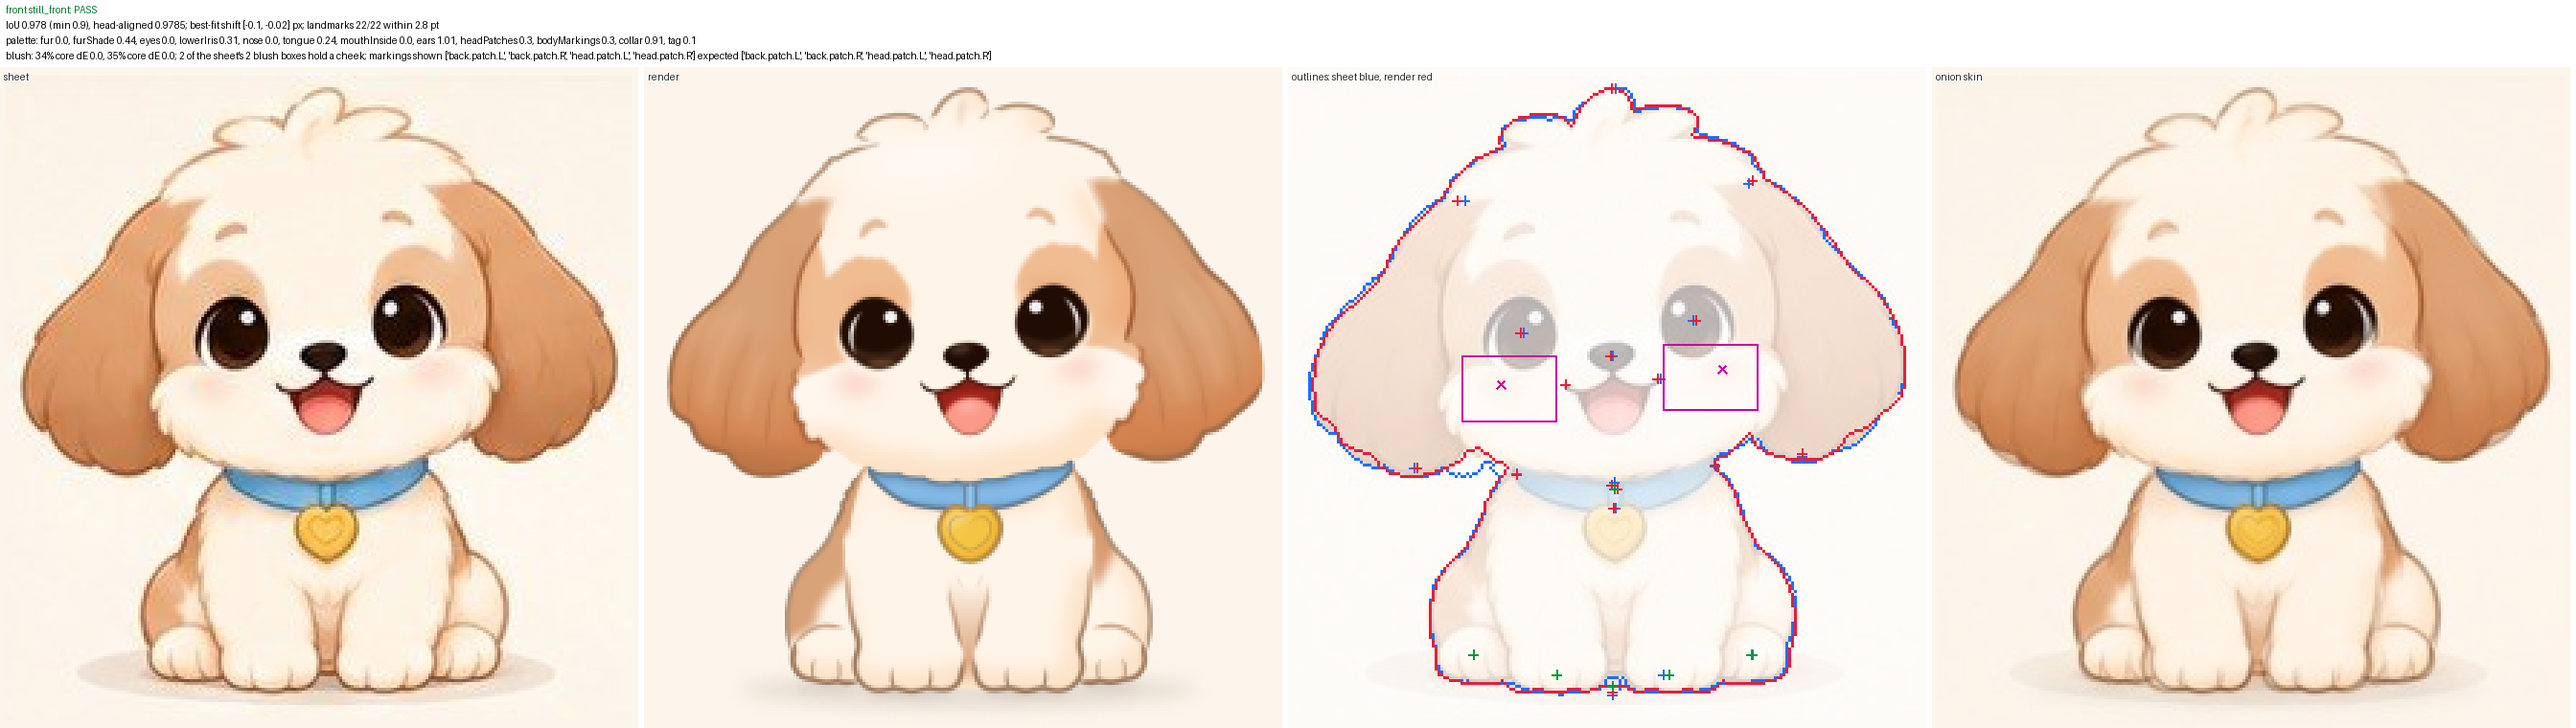
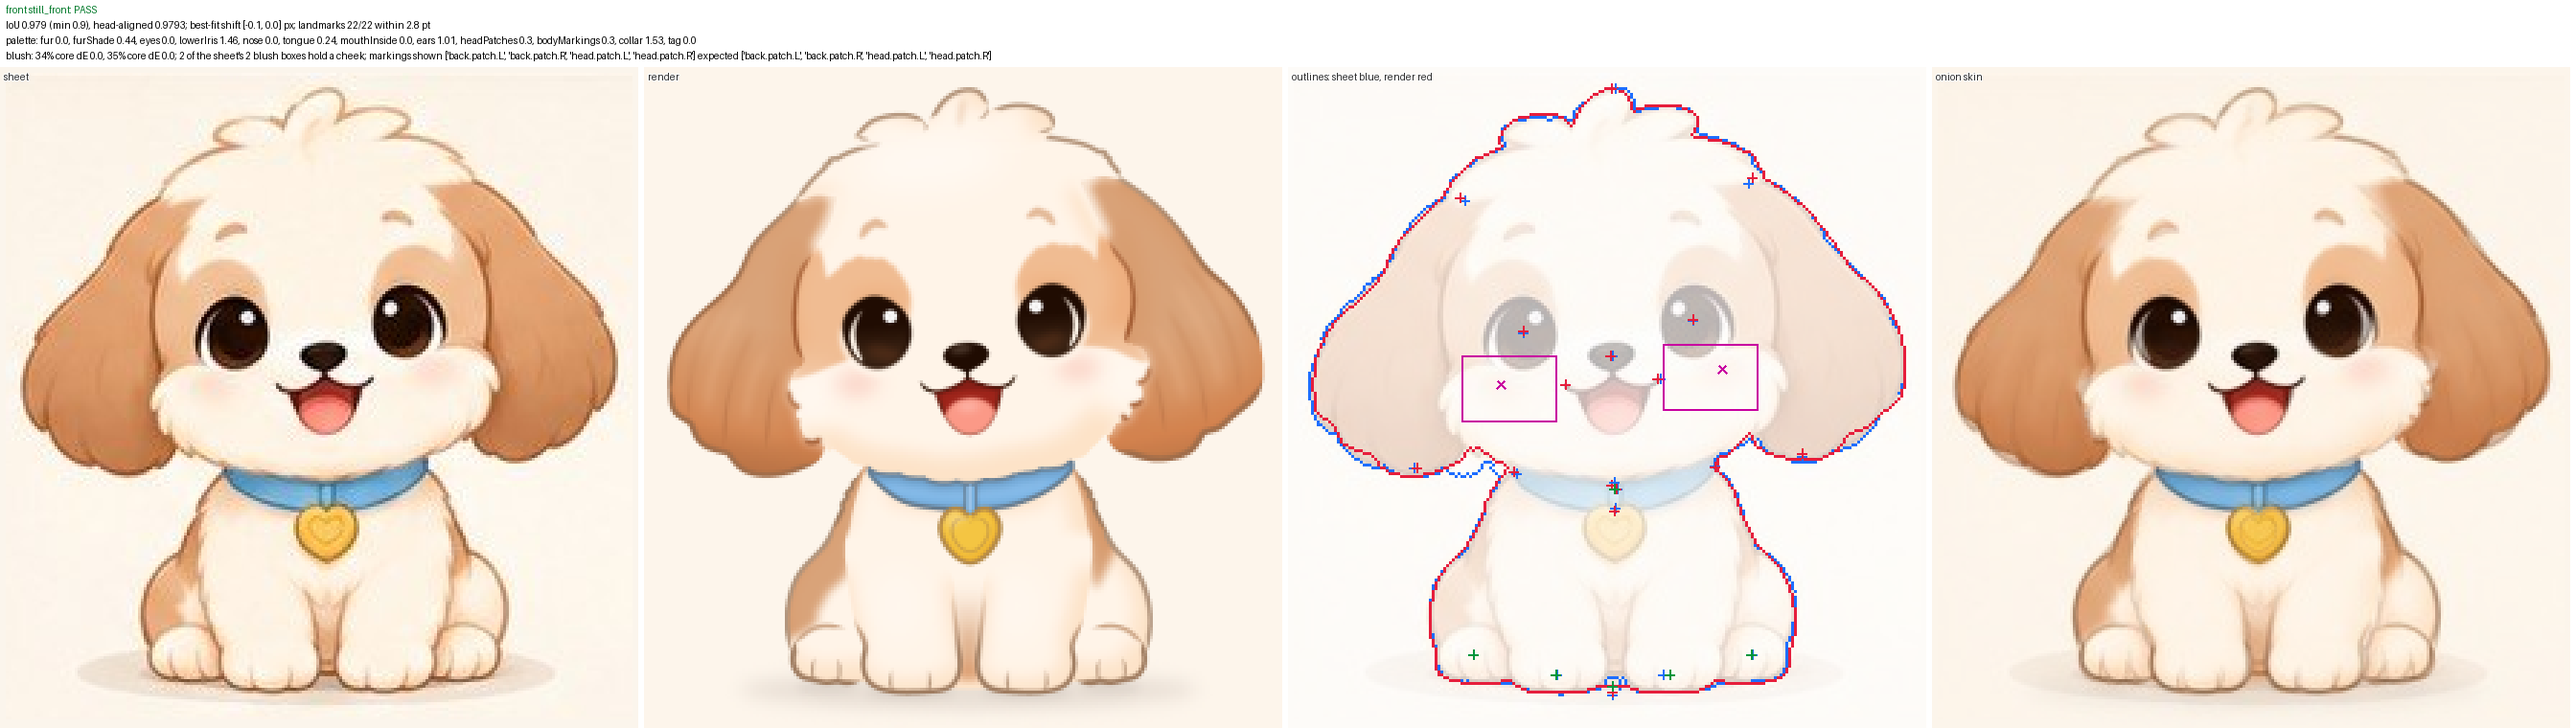
The front's eyes: a thin warm sliver of white low on the outer side, a warmer lower iris
The sheet's white measures about 1.5 pt at its widest, a sliver from a little above
level to below the outer foot; the iris's lower third warms through the dark brown to
a soft reddish glow; the oval is a little taller and leans toward the nose as the
sheet's does, and the lid thickens over the outer top corner.

Claude-Session: https://claude.ai/code/session_01MXaHnDR5xXHB9UwvyUL8cb

diff --git a/characters/dog/src/views/front.ts b/characters/dog/src/views/front.ts
@@ -450,74 +450,93 @@ function headLinePiece(): Piece {
 
 /**
  * An open eye at its landmark, as the turnaround, the hero and the expression sheet's open eyes paint it: an
- * oval about as tall as it is wide (19.4 pt on the sheet), its top leaning toward the nose (and rolled with the
- * face), its edge a little soft. The rim is a lash line, heaviest along the upper lid and the upper outer side,
- * near-black there and warming to the printed dark brown round the eye's foot, thinnest along the foot. Inside
- * it the white of the eye shows as a clean warm-white crescent between the rim and the iris on the outer side,
- * from high on that side down to the foot, widest just below level, its top greying a little in the upper lid's
- * shade; its edges are crisp, so it reads as the eye's white, not a reflection. The iris is the near-black of
- * the pupils down to a distinct lower band in the printed dark brown (DECISIONS 18), as the hero paints it,
- * warming in its middle;
- * and one catchlight, high on the nose side where the sheet's sits, crisp, with a faint grey core. The sheets
- * draw no small catchlight (the turnaround, the hero, the glossy-eyes panel and the expression sheet's open
- * eyes each draw exactly one), so none is drawn: the spec's "one or two small ones" (L446, L509) is a question
- * for the founder. A faint pale halo lies outside the rim round its lower outer side, between the eye and the
- * hood's tan. `noseward` is +1 when the nose is to its right.
+ * oval a little taller than it is wide (the sheet's dark eye fits 18.5 by 19.5 pt), rolled with the face, its
+ * edge a little soft. The rim is a lash line, heaviest along the upper lid and the upper outer side, where it
+ * flicks a little out past the ball at the outer top corner, near-black there and warming to the printed dark
+ * brown round the eye's foot, thinnest along the foot. Inside it the iris fills the eye: the near-black of the
+ * pupil over its upper two thirds, then a lower third that warms through the printed dark brown (DECISIONS 18)
+ * to a soft reddish-brown glow above the foot, as the hero paints it. The white of the eye is a thin warm sliver
+ * between the rim and the iris low on the outer side, where the sheet draws it: from a little above level down
+ * to below the eye's outer foot, widest (1.4 pt, about 8% of the eye's width, as the sheet's measures) a third
+ * of the way round below level, tapering to nothing at both ends and greying toward its top in the lid's shade;
+ * its inner edge crisp, so it reads as the eye's white, never as a reflection. One catchlight, high on the nose
+ * side where the sheet's sits, crisp, with a faint grey core. The sheets draw no small catchlight (the
+ * turnaround, the hero, the glossy-eyes panel and the expression sheet's open eyes each draw exactly one), so
+ * none is drawn: the spec's "one or two small ones" (L446, L509) is a question for the founder (Q26). A faint
+ * pale halo lies outside the rim round its lower outer side, between the eye and the hood's tan. `noseward` is
+ * +1 when the nose is to its right.
  */
 function eye(landmark: P, noseward: number): Piece {
-  const rx = 9.4, ry = 9.35, turn = 14 * noseward + ROLL_DEG, out = -noseward;
-  // The ball sits a hair out from the landmark and 0.55 pt below it, so the dark iris's own centre (DECISIONS 10)
+  const rx = 8.8, ry = 9.5, turn = 20 * noseward + ROLL_DEG, out = -noseward;
+  // The ball sits a hair out from the landmark and 0.45 pt below it, so the dark eye's own centre (DECISIONS 10)
   // lands on the landmark with the eye's foot where the sheet's is.
-  const [cx, cy]: P = [landmark[0] + out * 0.2 * cosR - 0.55 * sinR, landmark[1] + out * 0.2 * sinR + 0.55 * cosR];
+  const [cx, cy]: P = [landmark[0] + out * 0.15 * cosR - 0.45 * sinR, landmark[1] + out * 0.15 * sinR + 0.45 * cosR];
   /** A point in the eye's own frame, rolled with the face: x toward the nose, y down. */
   const S = (x: number, y: number): P => [cx + noseward * x * cosR - y * sinR, cy + noseward * x * sinR + y * cosR];
   const oval = (c: P, a: number, b: number, deg = turn) => pathD(ellipse(c, a, b, deg));
-  const clip = uid("eye"), irisClip = uid("eye"), above = uid("band"), rimFade = uid("rim");
-  const warm = uid("blur"), shine = uid("blur"), edge = uid("blur"), crisp = uid("blur"), band = uid("blur"), halo = uid("blur"), core = uid("blur");
+  const clip = uid("eye"), rimFade = uid("rim"), lowFade = uid("iris"), greys = uid("white");
+  const shine = uid("blur"), edge = uid("blur"), crisp = uid("blur"), band = uid("blur"), halo = uid("blur"), core = uid("blur"), glow = uid("blur");
   const box: Box = [cx - 14, cy - 14, 28, 28];
   const ball = oval([cx, cy], rx, ry);
   // The eye's opening inside the dark rim, which is 1 pt wide down both sides, 1.3 pt over the top and 0.8 pt
-  // along the foot; the white of the eye fills it.
-  const opening = oval(S(0, 0.25), rx - 1, ry - 1.05);
-  // The iris: an oval 16.4 by 18.4 pt set 2 pt toward the nose, its top leaning 12 degrees away from it, so it
-  // fills the opening on the nose's side, over the top and along the foot, and on the outer side leaves the white
-  // as a crescent between it and the rim, as every sheet paints it: 2.25 pt wide at its widest, just below the
-  // eye's level (12% of the eye's width, 16% of the iris's), thinning to nothing 65 degrees above level and at
-  // the eye's foot.
-  const irisOval = oval(S(2, -0.2), 8.2, 9.2, ROLL_DEG - 12 * noseward);
-  /** A disc's clip: everything round it but the disc, so what it clips is the iris less the disc. */
-  const less = (c: P, r: number) => `M${fmt(cx - 30)} ${fmt(cy - 30)}H${fmt(cx + 30)}V${fmt(cy + 30)}H${fmt(cx - 30)}Z` + pathD(ellipse(c, r, r));
-  // The lower band: the iris less a disc 12.55 pt in radius whose foot lies 3.6 pt above the opening's foot, so the
-  // band is 3.6 pt deep at the foot and runs out about 80 degrees either side of it, its top following the eye's round.
-  const lower = less(S(1.4, -7.6), 12.55);
+  // along the foot; the iris fills it.
+  const [ox, oy] = [rx - 1, ry - 1.05], oc = S(0, 0.25);
+  const opening = oval(oc, ox, oy);
+  /** A point on an oval about the opening's centre, `a` degrees round from the outer side (up positive), in the eye's frame turned with it. */
+  const tilt = ((turn - ROLL_DEG) * Math.PI) / 180 * noseward;
+  const onOpening = (a: number, inset: number): P => {
+    const r = (a * Math.PI) / 180;
+    const [x, y] = [-(ox - inset) * Math.cos(r), -(oy - inset) * Math.sin(r)];
+    return S(0 + x * Math.cos(tilt) - y * Math.sin(tilt), 0.25 + x * Math.sin(tilt) + y * Math.cos(tilt));
+  };
+  // The white: a sliver from 26 degrees above the outer side's level to 64 below, its width rising and falling
+  // like a beta curve that peaks a third of the way round below level, its outer edge just under the rim.
+  const [a1, a2, wide] = [38, -74, 1.6];
+  const steps = 28, peak = (t: number) => Math.pow(4 * Math.pow(t, 1.25) * (1 - Math.pow(t, 1.25)), 0.6);
+  const top = 1;
+  const outerEdge: P[] = [], innerEdge: P[] = [];
+  for (let i = 0; i <= steps; i++) {
+    const t = i / steps, a = a1 + (a2 - a1) * t;
+    outerEdge.push(onOpening(a, -0.3));
+    innerEdge.push(onOpening(a, (wide * peak(t)) / top));
+  }
+  const sliver = polyD([...outerEdge, ...innerEdge.reverse()]);
+  const [s0, s1] = [onOpening(a1, 0.5), onOpening(-20, 0.5)];
   const [t0x, t0y] = S(0, -ry);
-  // The lash line: from below the outer corner, over the top, to the nose side's upper quarter, on the ball's rim.
-  const around = (from: number, to: number, grow: number, n = 41): P[] => Array.from({ length: n }, (_, k) => {
-    const a = ((from + ((to - from) * k) / (n - 1)) * Math.PI) / 180;
-    return S(-(rx + grow) * Math.cos(a), -(ry + grow) * Math.sin(a));
+  // The lash line: from the outer side a little above level, over the top, to the nose side's upper quarter, on
+  // the ball's rim; its outer end swings out a little past the ball, the lid's small flick at the outer corner.
+  const around = (from: number, to: number, grow: (a: number) => number, n = 41): P[] => Array.from({ length: n }, (_, k) => {
+    const deg = from + ((to - from) * k) / (n - 1), a = (deg * Math.PI) / 180;
+    return S(-(rx + grow(deg)) * Math.cos(a), -(ry + grow(deg)) * Math.sin(a));
   });
-  const lidLine = tapered(around(-35, 120, 0.25), 1.8, "outer", "eye lid", { taper: 9, tip: 0.3 });
+  const flick = (a: number) => 0.25 + 0.25 * Math.exp(-(((a - 30) / 22) ** 2));
+  const lidLine = tapered(around(-18, 122, flick), 1.8, "outer", "eye lid", { taper: 8, tip: 0.3 });
   // The halo: a soft pale band just outside the rim, from below the eye round its outer side.
-  const haloBand = strokeOf(around(-125, 25, 1.1, 31), 1.7, { taper: 5, tip: 0.2 });
-  const big = S(3.6, -4.55), warmAt = S(1.6, 7.4);
+  const haloBand = strokeOf(around(-125, 25, () => 1.1, 31), 1.7, { taper: 5, tip: 0.2 });
+  const big = S(3.5, -4.6), glowAt = S(1, 5.2);
   const n = (p: P) => `${fmt(p[0])}" cy="${fmt(p[1])}`;
-  const svg = `<defs><clipPath id="${clip}"><path d="${opening}"/></clipPath><clipPath id="${irisClip}"><path d="${irisOval}"/></clipPath>` +
-    `<clipPath id="${above}"><path d="${lower}" clip-rule="evenodd"/></clipPath>` +
+  // The lower third: down the eye's own axis, clear above, the printed dark brown from a little below level to
+  // the foot, which the rim's warm brown meets.
+  const [l0x, l0y] = S(0, -2.5), [l1x, l1y] = S(0, 5.4);
+  const svg = `<defs><clipPath id="${clip}"><path d="${opening}"/></clipPath>` +
     // The rim warms from near-black along the lid to the printed dark brown round the eye's foot, as the sheet's does.
     `<linearGradient id="${rimFade}" gradientUnits="userSpaceOnUse" x1="${fmt(t0x)}" y1="${fmt(t0y)}" x2="${fmt(2 * cx - t0x)}" y2="${fmt(2 * cy - t0y)}">` +
     `<stop offset="0.62" stop-color="${C.eyeDark}"/><stop offset="0.85" stop-color="${C.dark}"/></linearGradient>` +
-    `${blur(warm, box, 0.45)}${blur(shine, box, 0.15)}${blur(edge, box, 0.22)}${blur(crisp, box, 0.18)}${blur(band, box, 0.55)}${blur(halo, box, 0.55)}${blur(core, box, 0.3)}</defs>` +
+    `<linearGradient id="${lowFade}" gradientUnits="userSpaceOnUse" x1="${fmt(l0x)}" y1="${fmt(l0y)}" x2="${fmt(l1x)}" y2="${fmt(l1y)}">` +
+    `<stop offset="0" stop-color="${C.dark}" stop-opacity="0"/><stop offset="0.55" stop-color="${C.dark}" stop-opacity="0.55"/><stop offset="1" stop-color="${C.dark}"/></linearGradient>` +
+    // The white greys toward its top, under the lid's shade.
+    `<linearGradient id="${greys}" gradientUnits="userSpaceOnUse" x1="${fmt(s0[0])}" y1="${fmt(s0[1])}" x2="${fmt(s1[0])}" y2="${fmt(s1[1])}">` +
+    `<stop offset="0" stop-color="${C.dark}" stop-opacity="0.45"/><stop offset="1" stop-color="${C.dark}" stop-opacity="0"/></linearGradient>` +
+    `${blur(shine, box, 0.15)}${blur(edge, box, 0.22)}${blur(crisp, box, 0.16)}${blur(band, box, 0.5)}${blur(halo, box, 0.55)}${blur(core, box, 0.3)}${blur(glow, box, 0.9)}</defs>` +
     `<path d="${haloBand.d}" fill="${C.fur}" opacity="0.8" filter="url(#${halo})"/>` +
     `<g filter="url(#${edge})"><path d="${ball}" fill="url(#${rimFade})"/><path d="${lidLine.d}" fill="${C.eyeDark}"/></g>` +
-    // The white of the eye in the opening, greying a little under the upper lid's shade toward the crescent's top
-    // as the sheet's does, then the iris over it, their edges crisp, as the sheet paints them.
-    `<g clip-path="url(#${clip})"><path d="${opening}" fill="${C.eyeWhite}"/>` +
-    `<ellipse cx="${n(S(-4.5, -6.5))}" rx="6" ry="4.5" fill="${C.dark}" opacity="0.22" filter="url(#${warm})"/>` +
-    `<g filter="url(#${crisp})"><path d="${irisOval}" fill="${C.eyeDark}"/></g>` +
-    // The lower band, its top edge soft but defined, warming through its middle above the foot.
-    `<g clip-path="url(#${irisClip})"><g filter="url(#${band})"><path d="${irisOval}" fill="${C.dark}" clip-path="url(#${above})"/></g>` +
-    `<ellipse cx="${n(warmAt)}" rx="3.7" ry="0.85" fill="${C.irisLight}" opacity="0.85" filter="url(#${warm})"/></g></g>` +
-    `<ellipse cx="${n(big)}" rx="1.75" ry="1.65" fill="${C.light}" filter="url(#${shine})"/>` +
+    // The iris in the opening: the pupil's near-black, its lower third warming through the dark brown to a soft
+    // reddish glow above the foot; then the white over it, crisp.
+    `<g clip-path="url(#${clip})"><path d="${opening}" fill="${C.eyeDark}"/>` +
+    `<g filter="url(#${band})"><path d="${opening}" fill="url(#${lowFade})"/></g>` +
+    `<ellipse cx="${n(glowAt)}" rx="4.6" ry="1.9" transform="rotate(${fmt(turn)} ${fmt(glowAt[0])} ${fmt(glowAt[1])})" fill="${C.irisWarm}" opacity="0.5" filter="url(#${glow})"/>` +
+    `<g filter="url(#${crisp})"><path d="${sliver}" fill="${C.fur}"/><path d="${sliver}" fill="url(#${greys})"/></g></g>` +
+    `<ellipse cx="${n(big)}" rx="1.85" ry="1.75" fill="${C.light}" filter="url(#${shine})"/>` +
     `<ellipse cx="${n(big)}" rx="0.7" ry="0.6" fill="${C.dark}" opacity="0.1" filter="url(#${core})"/>`;
   return piece(svg, box, { shapes: [], lines: [lidLine.line] });
 }
